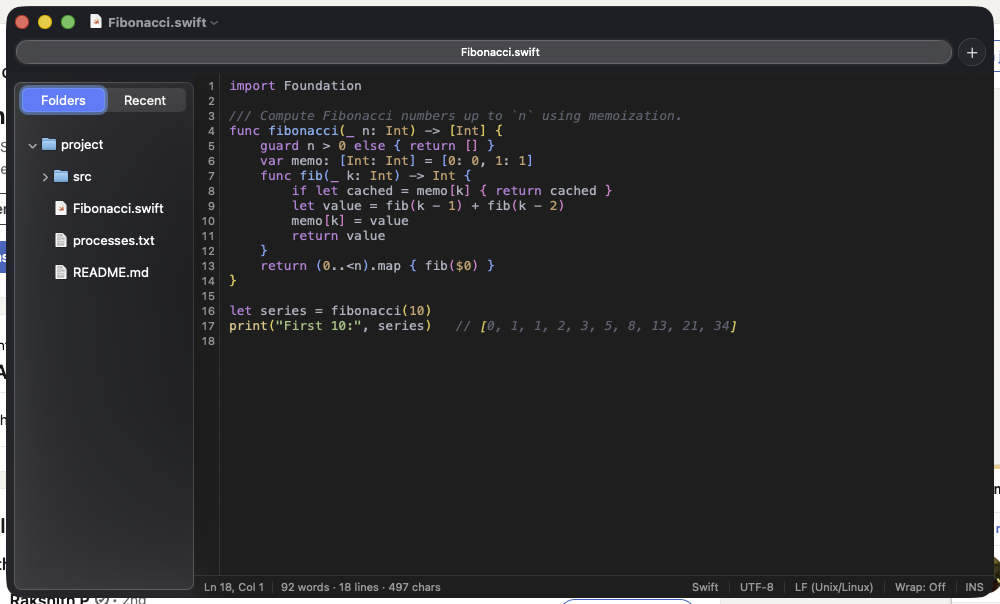
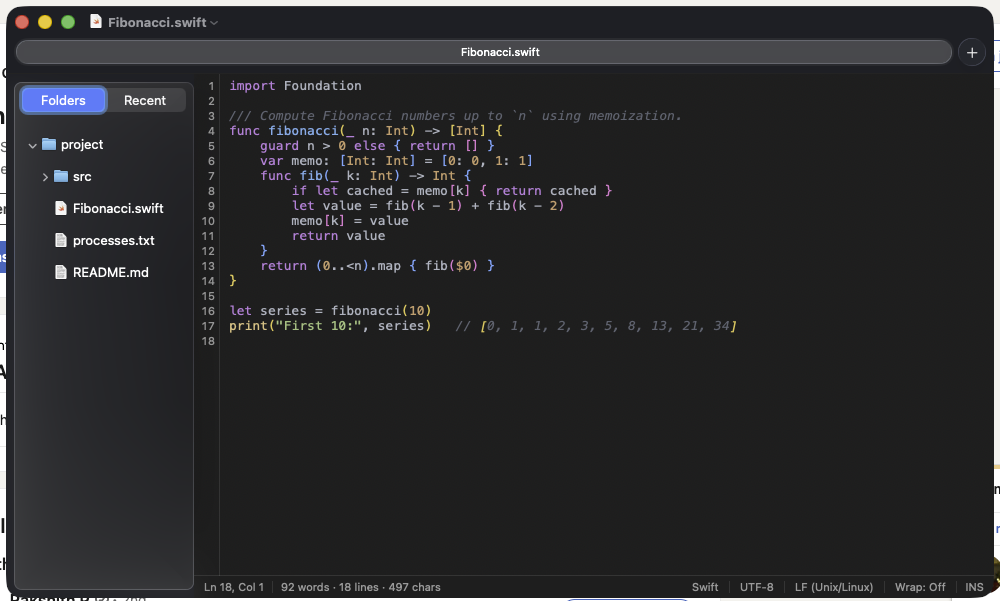
Docs: add find-replace + recent-files screenshots (6 total)
Captured via AP's new attach:true (no relaunch) — arrange the transient
state (find bar open / Recent pane) then attach + screenshot the live
window. 6 verified-clean medit-only shots now in the docs: hero, markdown
preview, settings, block-edit, find-replace, recent-files. Cropped a stray
1px window-bleed off hero.

diff --git a/docs/MANUAL.md b/docs/MANUAL.md
@@ -204,6 +204,7 @@ Toggles in the bar:
 
 <!-- SCREENSHOT: the find bar with Regex + Match Case toggles, a query, and a match
      count; the replacement row visible. → images/find-replace.png -->
+![Find & Replace](images/find-replace.png)
 
 ### Find in All Tabs
 
@@ -365,6 +366,7 @@ Files that no longer exist are dimmed.
 
 <!-- SCREENSHOT: the sidebar switched to the Recent pane with a list of files.
      → images/recent-files.png -->
+![Recent files](images/recent-files.png)
 
 ---
 

diff --git a/README.md b/README.md
@@ -85,6 +85,7 @@ Targets **macOS 14 (Sonoma)** and later. Universal — Apple Silicon and Intel.
 
 <!-- SCREENSHOT: the Find & Replace bar open with the Regex + Match Case toggles
      and a match count. → docs/images/find-replace.png -->
+![Find & Replace](docs/images/find-replace.png)
 
 ### Text transforms & block editing
 